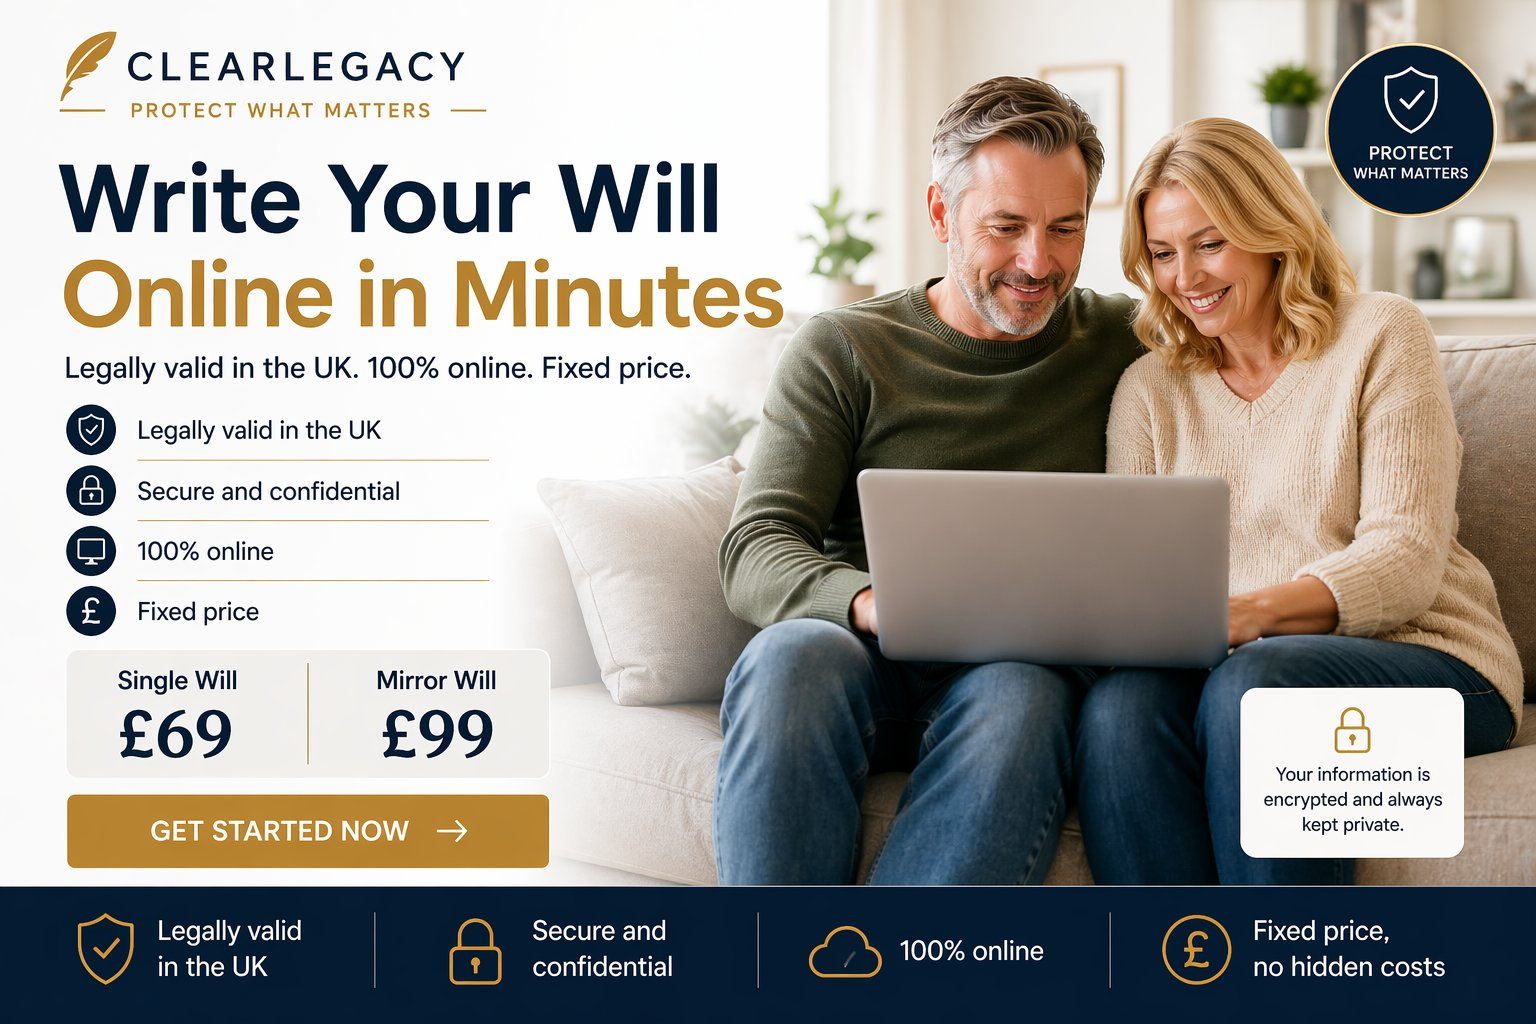
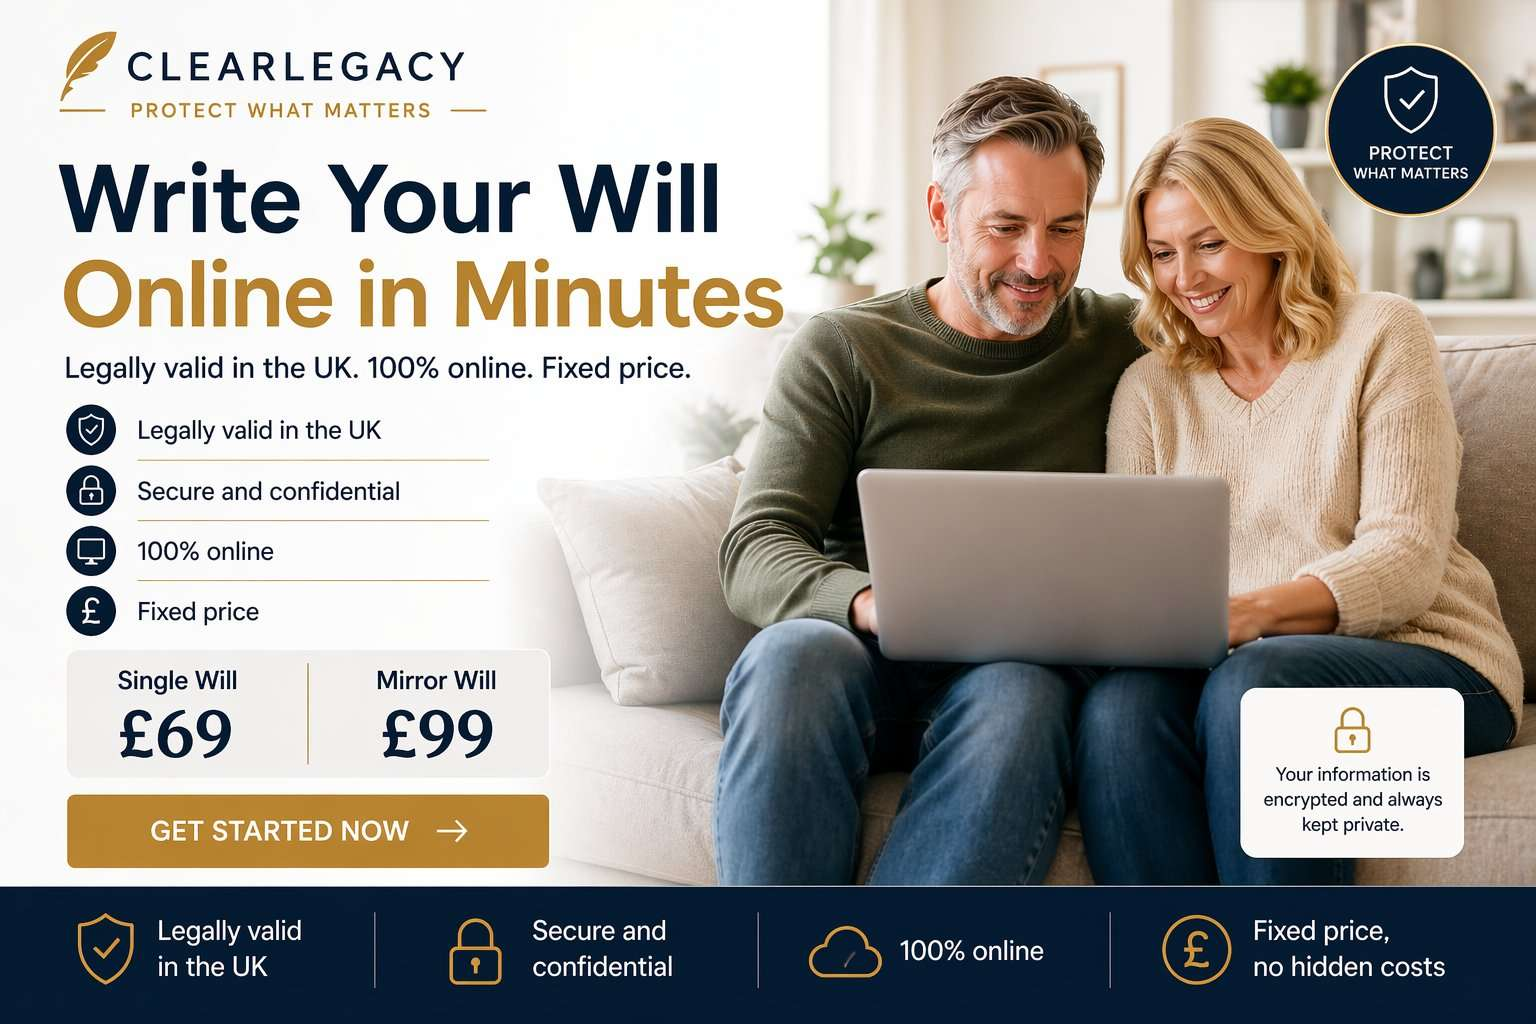
Patch 0040d: BabyLoveGrowth Technical Audit fixes
1. Meta title shortened: 63 chars -> 50 chars
   'Will Writing Service UK | Online Wills from £69 | ClearLegacy'
   -> 'Online Will Writing UK From £69 | Mirror Wills £99'
   (within 45-60 char optimal range)

2. Hero image compressed: 242 KB -> 138 KB
   (Q=60, optimize, progressive — same 1536x1024 dimensions)

3. Hero image alt text rewritten for accessibility:
   - Removed keyword stuffing (no £69/£99 in alt)
   - Focus on describing the image content
   - Better screen-reader experience

Closes 3 issues flagged by BabyLoveGrowth Technical Audit.
Target: lift Health Score 82->100, Page Speed 73->90+.

diff --git a/index.html b/index.html
@@ -11,7 +11,7 @@
 <link rel="icon" type="image/png" href="/favicon.png">
 <link rel="icon" type="image/png" sizes="16x16" href="/favicon-16.png">
 <meta name="viewport" content="width=device-width,initial-scale=1">
-<title>Will Writing Service UK | Online Wills from £69 | ClearLegacy</title>
+<title>Online Will Writing UK From £69 | Mirror Wills £99</title>
 <meta name="description" content="Professionally drafted online Wills from £69. Legally valid in England & Wales. Fixed fees. No hidden charges. Start in minutes.">
 <meta name="keywords" content="online will writing UK, will from £69, cheap will writing service, affordable will UK, probate service UK, clear legacy wills">
 <meta name="robots" content="index, follow">
@@ -547,7 +547,7 @@ fbq('track', 'PageView');
 
       </div>
       <div class="hero-image">
-        <img src="/images/hero-write-will-online-uk-compressed.jpg" alt="Couple writing their Will online with ClearLegacy — legally valid in England and Wales, Single Will from £69, Mirror Wills from £99" width="1536" height="1024" fetchpriority="high" loading="eager" decoding="sync">
+        <img src="/images/hero-write-will-online-uk-compressed.jpg" alt="A couple in their fifties sat on a sofa, writing their will together on a laptop showing the ClearLegacy online form." width="1536" height="1024" fetchpriority="high" loading="eager" decoding="sync">
       </div>
     </div>
   </section>